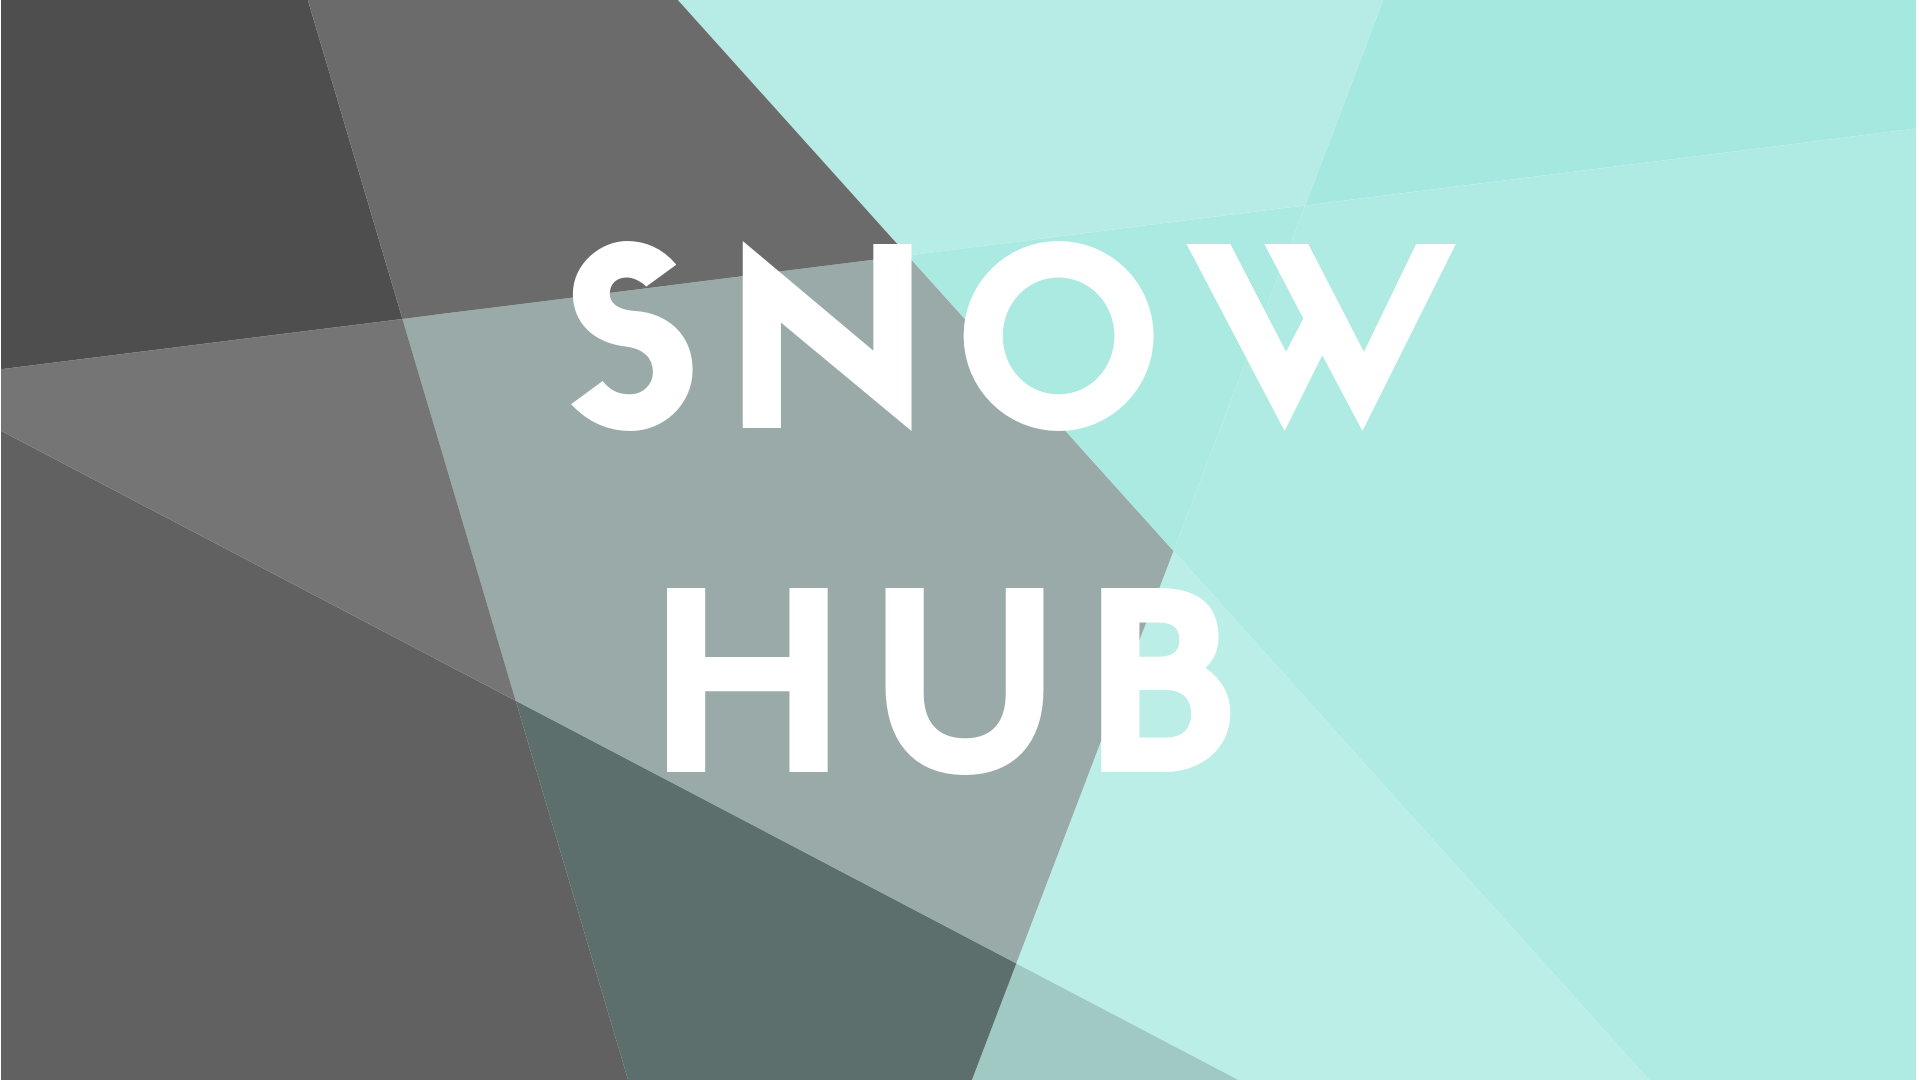
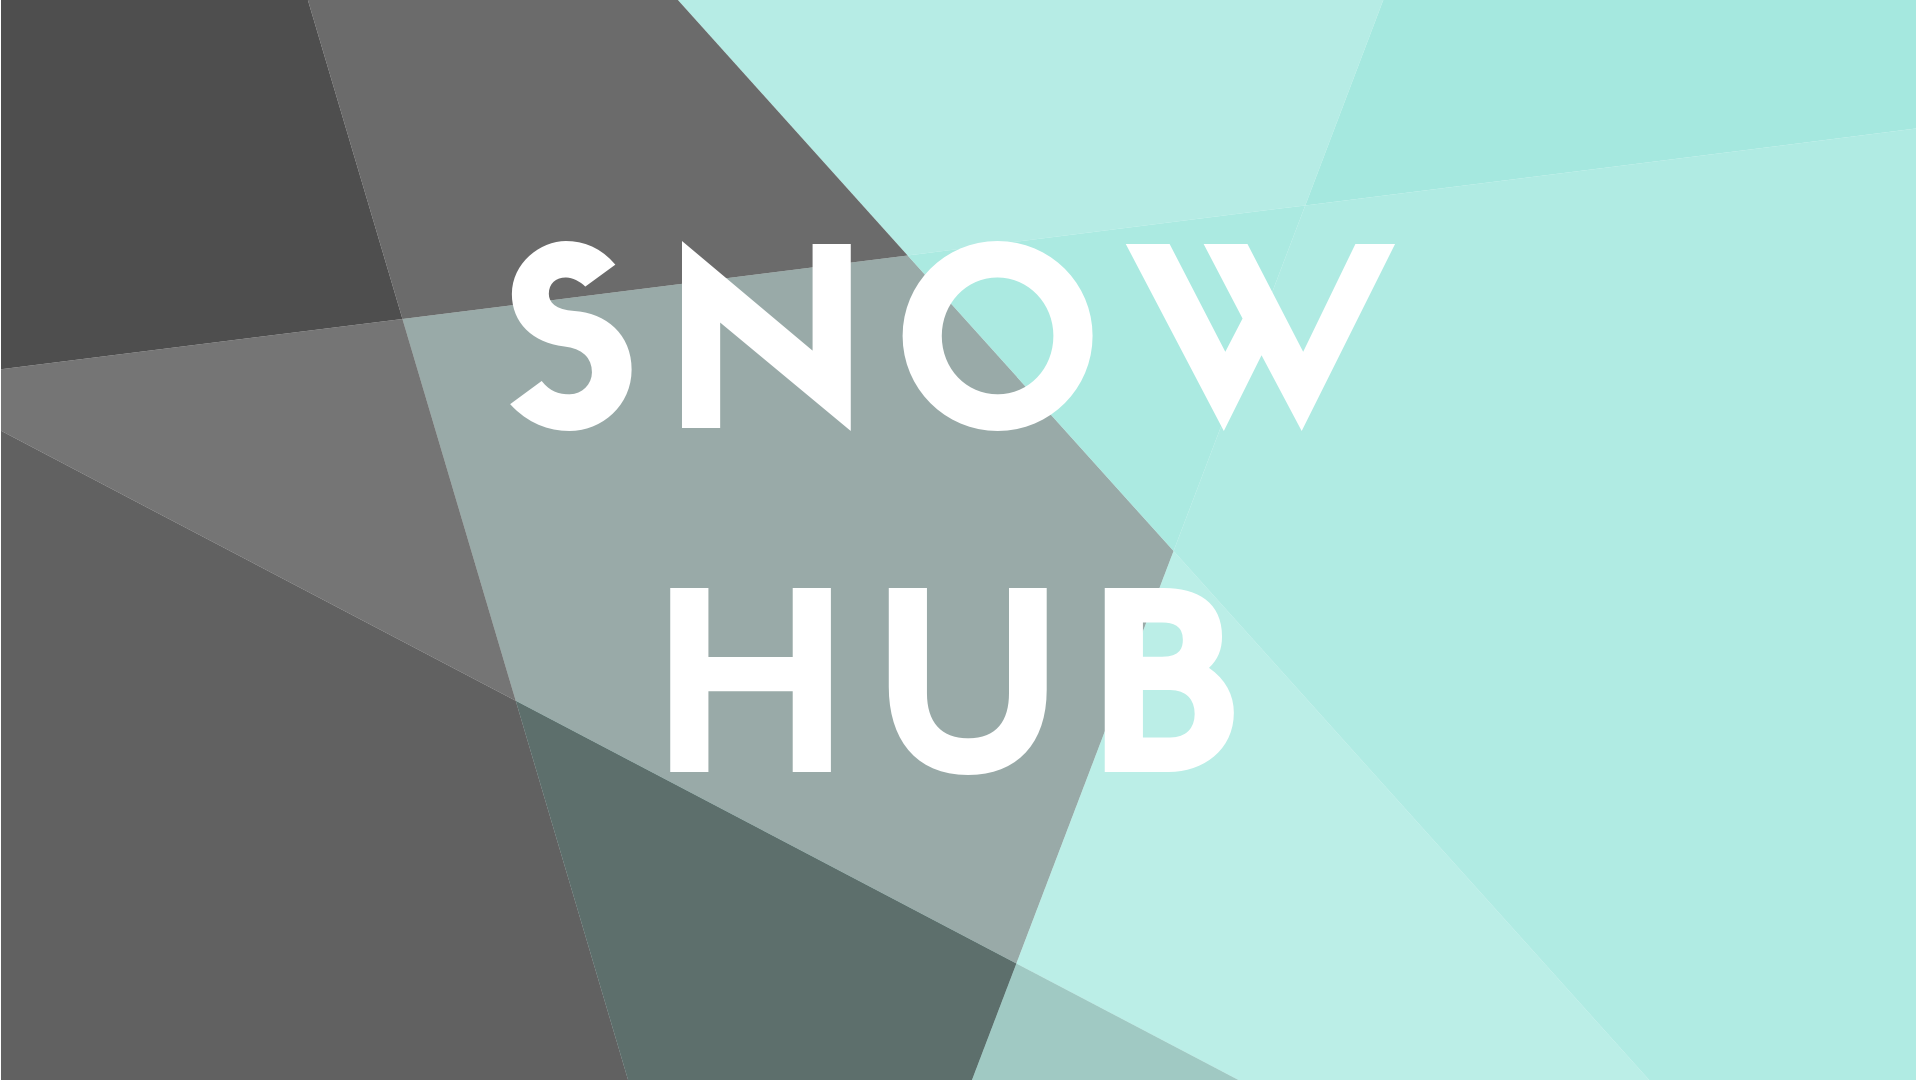
homepage styling

diff --git a/src/index.css b/src/index.css
@@ -30,6 +30,11 @@ img {
 /* nav bar end */
 
 /* homepage start */
+
+.homepage {
+  position: relative;
+}
+
 .homepage-video {
   height: 720px;
   width: 1280px;
@@ -48,7 +53,7 @@ video {
   opacity: 0.3;
   position: absolute;
   top: 0;
-  left: 0;
+  left: -4%;
   height: 100%;
   z-index: 10;
 
@@ -111,16 +116,20 @@ video {
 /* new event form end */
 
 /* new event login start */
+.new-event-login {
+  margin-bottom: 30%;
+}
 
 .new-event-login-btn-container {
   position: absolute;
   margin: 5%;
+  margin-top: 15%;
 }
 
 .new-event-login .ui.inverted.grey.basic.button, .ui.inverted.grey.basic.buttons .button, .ui.inverted.grey.buttons .basic.button {
   margin: 20px;
   position: relative;
-  left: 55%;
+  left: 58%;
 }
 
 /* new event login end */
@@ -229,11 +238,10 @@ video {
 }
 
 .youtube-play {
-  opacity: 0.7;
   position: absolute;
-  height: 70%;
-  width: 78%;
-  margin: 30px;
+  height: 40%;
+  width: 40%;
+  margin: 18% 30%;
   z-index: 10;
 }
 

diff --git a/src/pages/HomePage.js b/src/pages/HomePage.js
@@ -6,12 +6,14 @@ import homepageOverlay from '../images/homepage-overlay.png';
 const HomePage = () => {
   return (
     <Fragment>
-      <div className="homepage-video">
-        <video loop autoPlay>
-           <source src={homepageVideo} type="video/mp4" />
-        </video>
-        <img className="homevideo-overlay" src={homepageOverlay} />
-      </div>
+      <div className="homepage">
+        <div className="homepage-video">
+          <video loop autoPlay>
+             <source src={homepageVideo} type="video/mp4" />
+          </video>
+          <img className="homevideo-overlay" src={homepageOverlay} />
+        </div>
+     </div>
     </Fragment>
   )
 }

diff --git a/src/components/Resort.js b/src/components/Resort.js
@@ -8,7 +8,7 @@ import { Button } from 'semantic-ui-react';
 const Resort = ({resort}) => {
 
   const icon = L.icon({
-      iconUrl: 'https://res.cloudinary.com/dfosmeuuq/image/upload/v1542075827/hlmugmgnvxf80tewui3q.png',
+      iconUrl: 'https://res.cloudinary.com/dfosmeuuq/image/upload/v1542167891/mzpnkixnq2qhir8l0e02.png',
       iconSize:     [25, 25],
       iconAnchor:   [0, 0],
       popupAnchor:  [0, 0]
